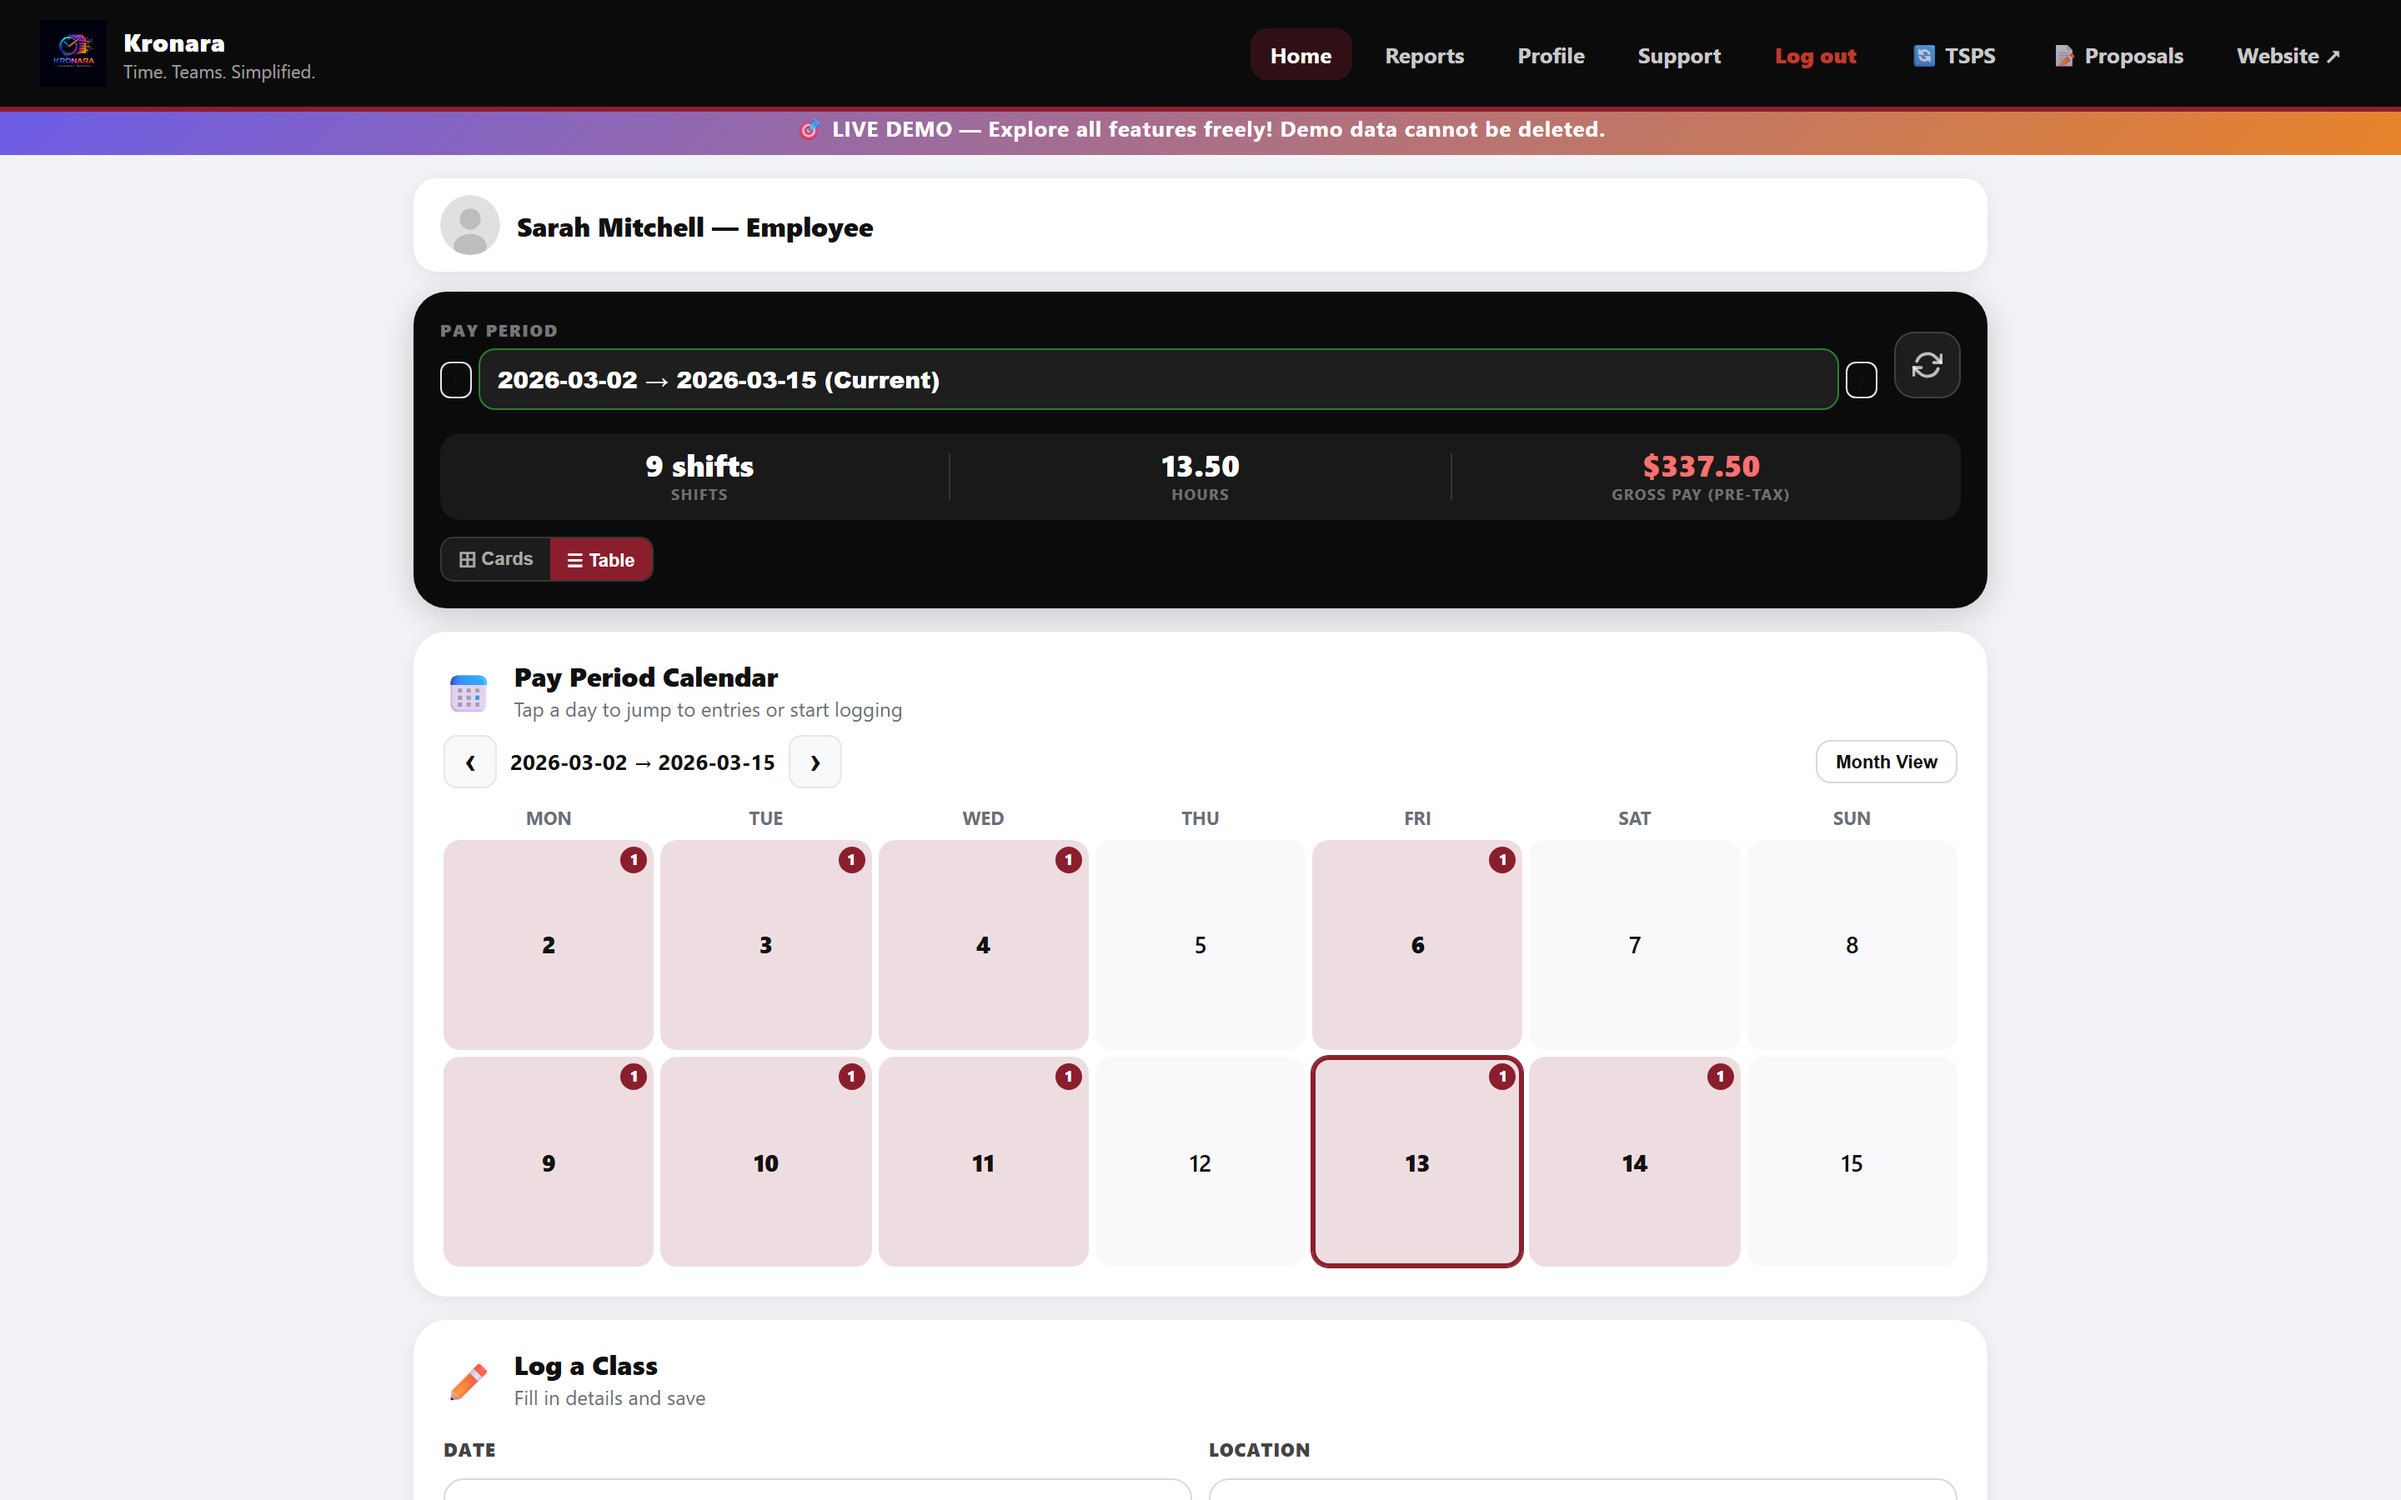
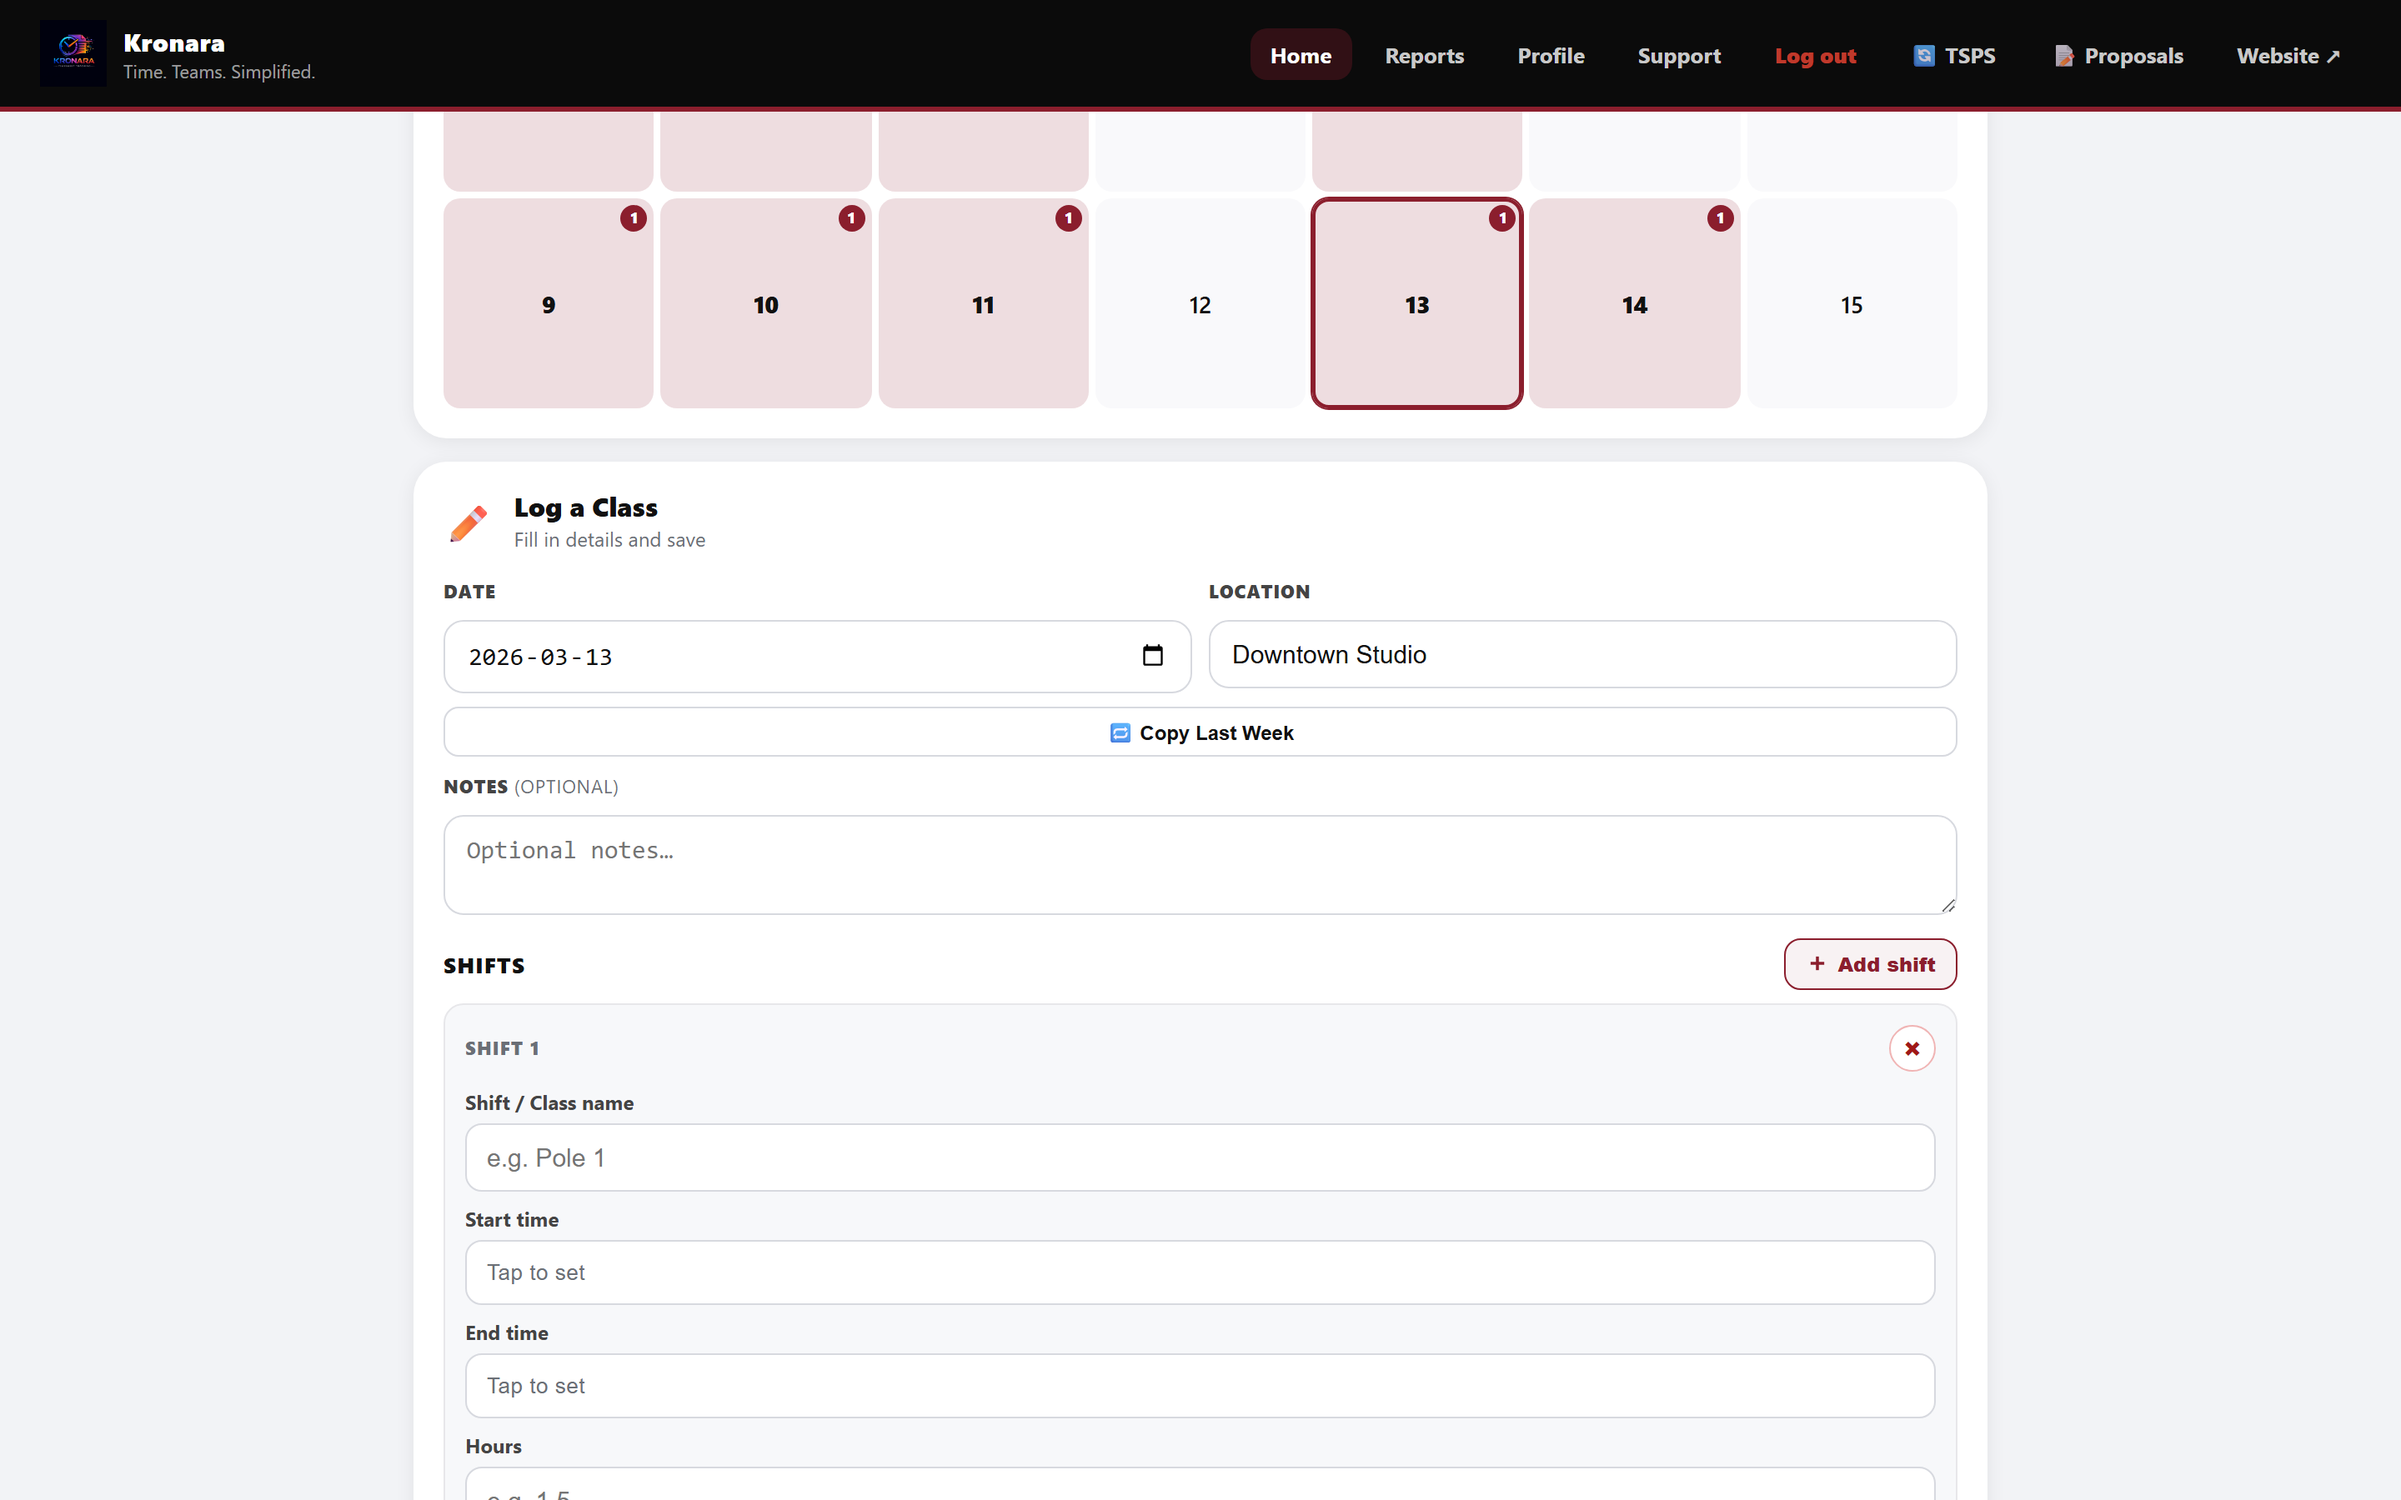
Add lightbox, theme toggle, and dark theme screenshots
- Click any screenshot to view full-size in a lightbox overlay
- Light/Dark theme toggle in screenshots section
- New dark (Kronara) theme screenshots via Playwright
- Hero image also switches with theme toggle
- Escape key and click-outside to close lightbox

diff --git a/docs/index.html b/docs/index.html
@@ -339,7 +339,7 @@
         <!-- Right: Hero Image/App Preview -->
         <div class="relative">
           <div class="aspect-[4/3] w-full max-w-lg mx-auto glow-purple rounded-2xl overflow-hidden">
-            <img src="assets/screenshots/hero-dashboard.png" alt="Kronara Staff Dashboard" class="w-full h-full object-cover object-top rounded-2xl">
+            <img src="assets/screenshots/hero-dashboard.png" data-light="assets/screenshots/hero-dashboard.png" data-dark="assets/screenshots/hero-dashboard-dark.png" alt="Kronara Staff Dashboard" class="ss-img w-full h-full object-cover object-top rounded-2xl">
           </div>
           <!-- Floating accent cards -->
           <div class="absolute -top-4 -right-4 bg-kronara-navy-card border border-kronara-navy-border rounded-xl p-4 animate-float hidden lg:block">
@@ -606,7 +606,7 @@
   <!-- Screenshots Section -->
   <section id="screenshots" class="py-24 md:py-32 bg-kronara-navy-light/30 relative">
     <div class="max-w-7xl mx-auto px-4 sm:px-6 lg:px-8">
-      <div class="text-center mb-20 fade-in">
+      <div class="text-center mb-12 fade-in">
         <p class="text-kronara-orange text-sm font-semibold uppercase tracking-widest mb-4">Screenshots</p>
         <h2 class="text-3xl md:text-5xl font-bold mb-6">
           See Kronara <span class="gradient-text font-display">in action</span>
@@ -616,36 +616,48 @@
         </p>
       </div>
 
+      <!-- Theme Toggle -->
+      <div class="flex items-center justify-center gap-4 mb-12 fade-in">
+        <div class="inline-flex items-center bg-kronara-navy-card border border-kronara-navy-border rounded-full p-1">
+          <button id="theme-light-btn" onclick="switchScreenshotTheme('light')" class="px-5 py-2 rounded-full text-sm font-semibold transition-all bg-white/10 text-white">
+            <span class="mr-1.5">&#9728;</span> Light Theme
+          </button>
+          <button id="theme-dark-btn" onclick="switchScreenshotTheme('dark')" class="px-5 py-2 rounded-full text-sm font-semibold transition-all text-kronara-muted">
+            <span class="mr-1.5">&#9790;</span> Dark Theme
+          </button>
+        </div>
+      </div>
+
       <!-- Screenshot Grid -->
       <div class="grid md:grid-cols-2 gap-8 mb-8">
         <!-- Screenshot 1 -->
         <div class="fade-in">
-          <div class="aspect-video w-full rounded-2xl overflow-hidden glow-purple">
-            <img src="assets/screenshots/staff-dashboard.png" alt="Staff Dashboard" class="w-full h-full object-cover object-top rounded-2xl">
+          <div class="aspect-video w-full rounded-2xl overflow-hidden glow-purple cursor-pointer" onclick="openLightbox(this.querySelector('img').src, this.querySelector('img').alt)">
+            <img src="assets/screenshots/staff-dashboard.png" data-light="assets/screenshots/staff-dashboard.png" data-dark="assets/screenshots/staff-dashboard-dark.png" alt="Staff Dashboard" class="ss-img w-full h-full object-cover object-top rounded-2xl hover:scale-105 transition-transform duration-300">
           </div>
           <p class="text-center text-sm text-kronara-text-secondary mt-4">Staff can log hours, view their calendar, and track earnings at a glance.</p>
         </div>
 
         <!-- Screenshot 2 -->
         <div class="fade-in">
-          <div class="aspect-video w-full rounded-2xl overflow-hidden glow-orange">
-            <img src="assets/screenshots/admin-payroll.png" alt="Admin Payroll View" class="w-full h-full object-cover object-top rounded-2xl">
+          <div class="aspect-video w-full rounded-2xl overflow-hidden glow-orange cursor-pointer" onclick="openLightbox(this.querySelector('img').src, this.querySelector('img').alt)">
+            <img src="assets/screenshots/admin-payroll.png" data-light="assets/screenshots/admin-payroll.png" data-dark="assets/screenshots/admin-payroll-dark.png" alt="Admin Payroll View" class="ss-img w-full h-full object-cover object-top rounded-2xl hover:scale-105 transition-transform duration-300">
           </div>
           <p class="text-center text-sm text-kronara-text-secondary mt-4">Admins review all staff entries, process payroll, and send PDF reports.</p>
         </div>
 
         <!-- Screenshot 3 -->
         <div class="fade-in">
-          <div class="aspect-video w-full rounded-2xl overflow-hidden">
-            <img src="assets/screenshots/calendar-entries.png" alt="Calendar & Entries" class="w-full h-full object-cover object-top rounded-2xl">
+          <div class="aspect-video w-full rounded-2xl overflow-hidden cursor-pointer" onclick="openLightbox(this.querySelector('img').src, this.querySelector('img').alt)">
+            <img src="assets/screenshots/reports.png" data-light="assets/screenshots/reports.png" data-dark="assets/screenshots/reports-dark.png" alt="Reports & Pay Breakdown" class="ss-img w-full h-full object-cover object-top rounded-2xl hover:scale-105 transition-transform duration-300">
           </div>
-          <p class="text-center text-sm text-kronara-text-secondary mt-4">Visual calendar with entry counts, shift details, and quick-add functionality.</p>
+          <p class="text-center text-sm text-kronara-text-secondary mt-4">Detailed pay reports with shift breakdowns, bonuses, and PDF export.</p>
         </div>
 
         <!-- Screenshot 4 -->
         <div class="fade-in">
-          <div class="aspect-[9/16] w-full max-w-xs mx-auto rounded-2xl overflow-hidden border-2 border-kronara-navy-border">
-            <img src="assets/screenshots/mobile-pwa.png" alt="Mobile PWA View" class="w-full h-full object-cover object-top rounded-2xl">
+          <div class="aspect-[9/16] w-full max-w-xs mx-auto rounded-2xl overflow-hidden border-2 border-kronara-navy-border cursor-pointer" onclick="openLightbox(this.querySelector('img').src, this.querySelector('img').alt)">
+            <img src="assets/screenshots/mobile-pwa.png" data-light="assets/screenshots/mobile-pwa.png" data-dark="assets/screenshots/mobile-pwa-dark.png" alt="Mobile PWA View" class="ss-img w-full h-full object-cover object-top rounded-2xl hover:scale-105 transition-transform duration-300">
           </div>
           <p class="text-center text-sm text-kronara-text-secondary mt-4">Install on any phone as a native-feeling app. Works on iOS and Android.</p>
         </div>
@@ -653,13 +665,23 @@
 
       <!-- Full-width screenshot -->
       <div class="fade-in">
-        <div class="aspect-[21/9] w-full rounded-2xl overflow-hidden glow-purple">
-          <img src="assets/screenshots/full-admin-overview.png" alt="Full Admin Dashboard Overview" class="w-full h-full object-cover object-top rounded-2xl">
+        <div class="aspect-[21/9] w-full rounded-2xl overflow-hidden glow-purple cursor-pointer" onclick="openLightbox(this.querySelector('img').src, this.querySelector('img').alt)">
+          <img src="assets/screenshots/full-admin-overview.png" data-light="assets/screenshots/full-admin-overview.png" data-dark="assets/screenshots/full-admin-overview-dark.png" alt="Full Admin Dashboard Overview" class="ss-img w-full h-full object-cover object-top rounded-2xl hover:scale-105 transition-transform duration-300">
         </div>
         <p class="text-center text-sm text-kronara-text-secondary mt-4">Complete admin dashboard: staff management, payroll processing, flags, and settings all in one place.</p>
       </div>
     </div>
   </section>
+
+  <!-- Lightbox Modal -->
+  <div id="lightbox" class="fixed inset-0 z-[100] hidden items-center justify-center bg-black/90 backdrop-blur-sm" onclick="closeLightbox(event)">
+    <button onclick="closeLightbox(event, true)" class="absolute top-6 right-6 w-10 h-10 rounded-full bg-white/10 hover:bg-white/20 flex items-center justify-center text-white transition-colors z-10">
+      <svg class="w-6 h-6" fill="none" stroke="currentColor" viewBox="0 0 24 24">
+        <path stroke-linecap="round" stroke-linejoin="round" stroke-width="2" d="M6 18L18 6M6 6l12 12"/>
+      </svg>
+    </button>
+    <img id="lightbox-img" src="" alt="" class="max-w-[92vw] max-h-[90vh] object-contain rounded-lg shadow-2xl" onclick="event.stopPropagation()">
+  </div>
 
   <!-- Video Section -->
   <section id="videos" class="py-24 md:py-32 relative">
@@ -1245,6 +1267,58 @@
 
   <!-- JavaScript -->
   <script>
+    // Screenshot theme toggle
+    let currentScreenshotTheme = 'light';
+
+    function switchScreenshotTheme(theme) {
+      currentScreenshotTheme = theme;
+      const imgs = document.querySelectorAll('.ss-img');
+      imgs.forEach(img => {
+        const src = theme === 'dark' ? img.dataset.dark : img.dataset.light;
+        if (src) img.src = src;
+      });
+
+      const lightBtn = document.getElementById('theme-light-btn');
+      const darkBtn = document.getElementById('theme-dark-btn');
+
+      if (theme === 'dark') {
+        darkBtn.classList.add('bg-kronara-purple', 'text-white');
+        darkBtn.classList.remove('text-kronara-muted');
+        lightBtn.classList.remove('bg-white/10', 'text-white');
+        lightBtn.classList.add('text-kronara-muted');
+      } else {
+        lightBtn.classList.add('bg-white/10', 'text-white');
+        lightBtn.classList.remove('text-kronara-muted');
+        darkBtn.classList.remove('bg-kronara-purple', 'text-white');
+        darkBtn.classList.add('text-kronara-muted');
+      }
+    }
+
+    // Lightbox
+    function openLightbox(src, alt) {
+      const lightbox = document.getElementById('lightbox');
+      const img = document.getElementById('lightbox-img');
+      img.src = src;
+      img.alt = alt || '';
+      lightbox.classList.remove('hidden');
+      lightbox.classList.add('flex');
+      document.body.style.overflow = 'hidden';
+    }
+
+    function closeLightbox(event, force) {
+      if (force || event.target === document.getElementById('lightbox')) {
+        const lightbox = document.getElementById('lightbox');
+        lightbox.classList.add('hidden');
+        lightbox.classList.remove('flex');
+        document.body.style.overflow = '';
+      }
+    }
+
+    // Close lightbox on Escape
+    document.addEventListener('keydown', (e) => {
+      if (e.key === 'Escape') closeLightbox(null, true);
+    });
+
     // Mobile menu toggle
     const mobileMenuBtn = document.getElementById('mobile-menu-btn');
     const mobileMenuClose = document.getElementById('mobile-menu-close');
